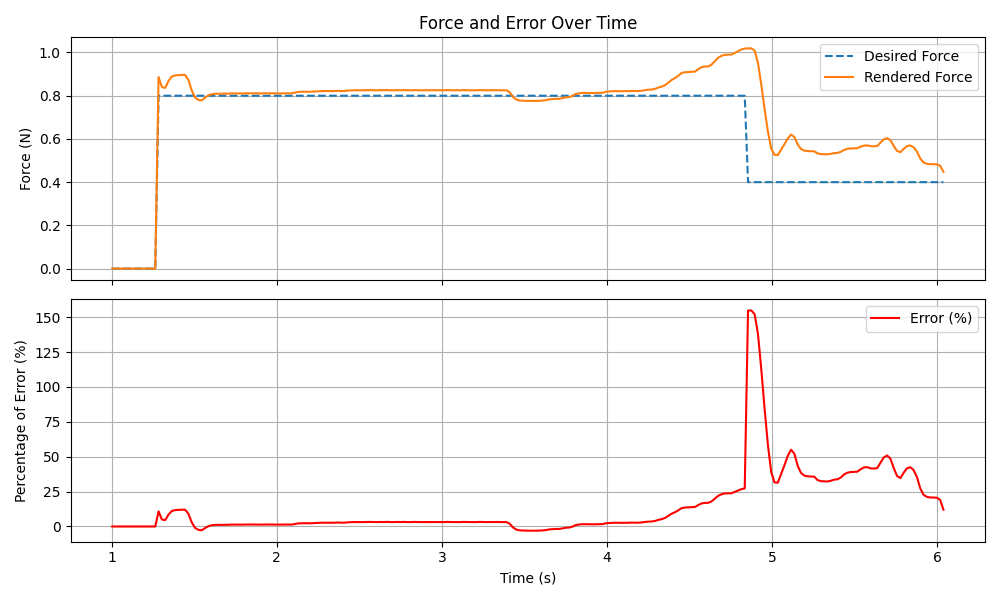
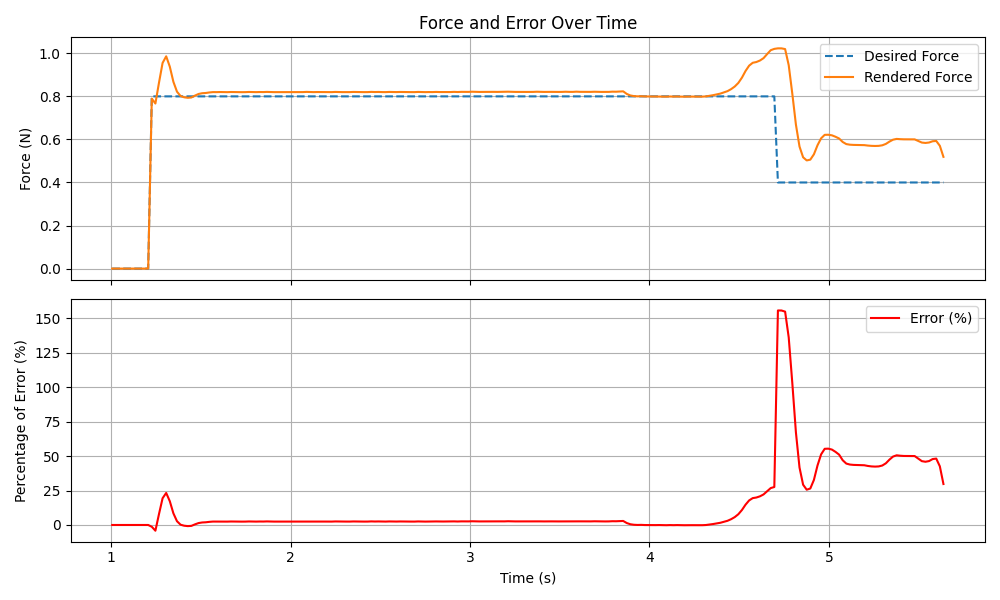
update

diff --git a/friction_render.py b/friction_render.py
@@ -44,7 +44,7 @@ initTime = 1.0  # seconds
 Kp, Ki, Kd = 0.8, 0, 0.05
 alpha = 0.7  # smoothing factor for low-pass filter
 pot_fluc = 0.012
-high_pass_alpha = 0.9
+high_pass_alpha = 0.99
 
 try:
     # while True:
